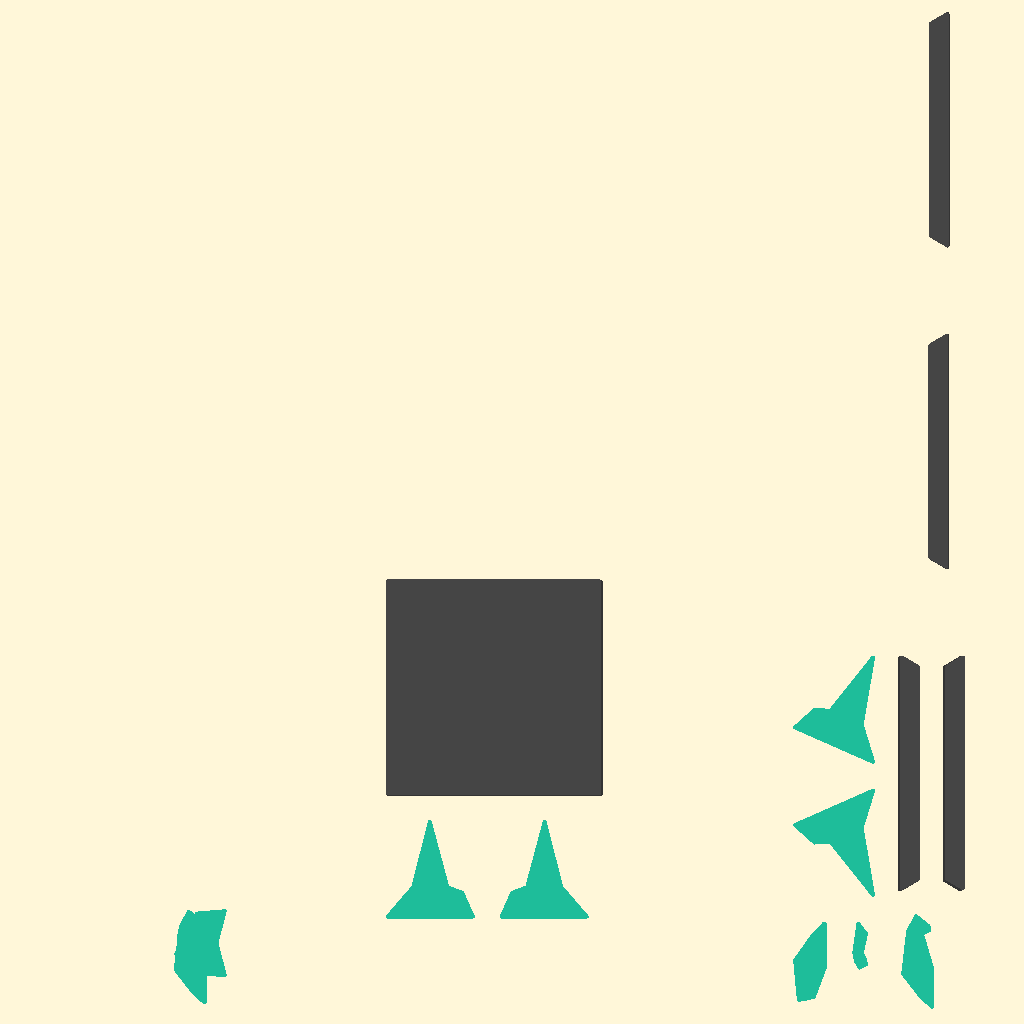
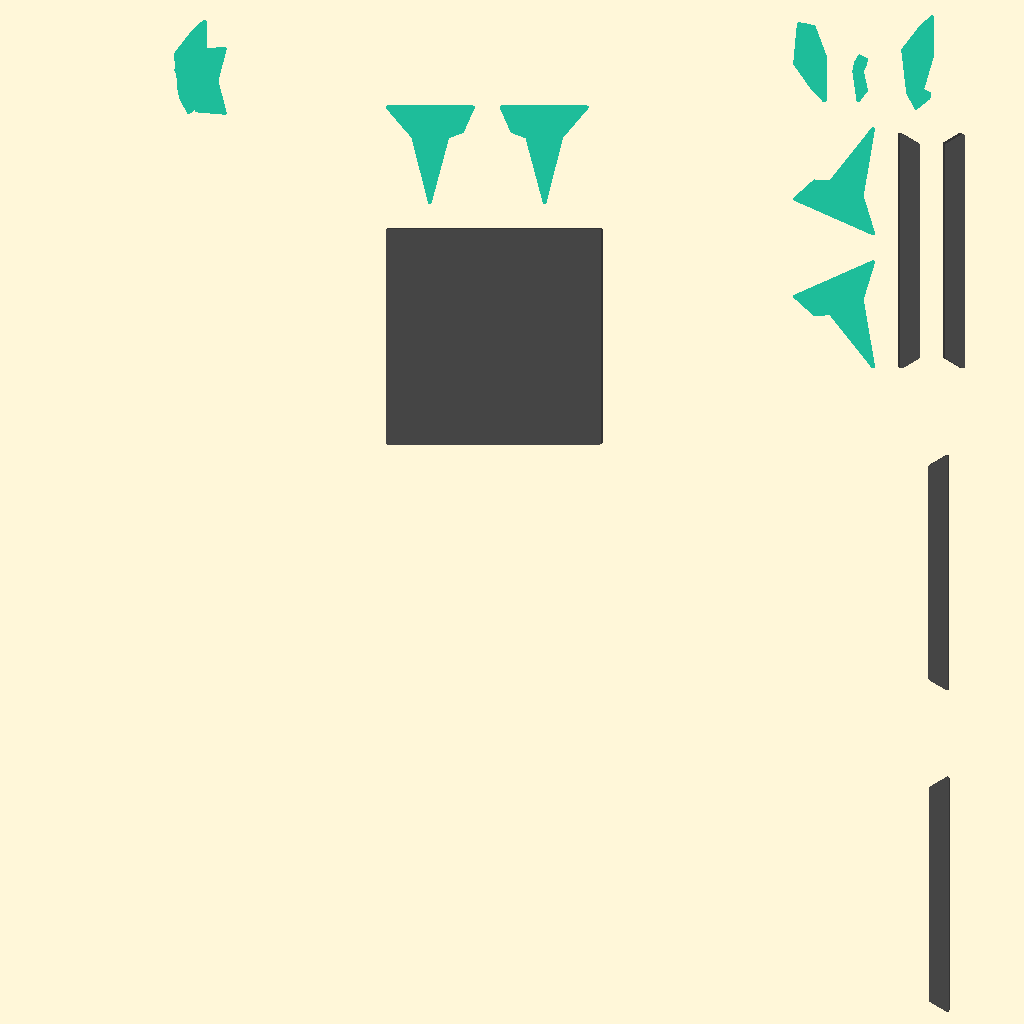
models and objects can use the same shaders now

diff --git a/week-04/03-pointShadows/main.c b/week-04/03-pointShadows/main.c
@@ -11,8 +11,8 @@ int main()
 	Trenderer render;
 	Tskybox skybox;
 	Tobject tile_floor, crate, probCrate;
-	unsigned int floorDiffuse, crateDiffuse, hanckDiffuse, hanckSpecular;
-	unsigned int lightShader, modelShader, objectShader, instanceShader, simpleDepthShader, debugDepthShader, insShadowMapShader;
+	unsigned int floorDiffuse, crateDiffuse, crateSpecular, hanckDiffuse, hanckSpecular;
+	unsigned int lightShader, objectShader, instanceShader, simpleDepthShader, debugDepthShader, insShadowMapShader;
 	unsigned int uboMatrices;
 	unsigned int tilesAmount = 128;
 	const unsigned SHADOW_WIDTH = 1024, SHADOW_HEIGHT = 1024;
@@ -54,16 +54,15 @@ int main()
 		{ 0.0f, 1.0f,  0.0f},
 	};
 	
-	window = prepareGLFW(600, 800);
+	window = prepareGLFW(800, 600);
 	glfwWindowHint(GLFW_SAMPLES, 4);
 	glEnable(GL_MULTISAMPLE);
 	
 	prepareGLEW();
 	init_config(&config, 1920, 1080);
-	init_camera(&camera, config, 4);
+	init_camera(&camera, config, 1);
 	
 	createShader(&lightShader, "./source/shaders/vertexShaders/newPers.vert", "./source/shaders/fragmentShaders/light.frag");
-	createShader(&modelShader, "./source/shaders/vertexShaders/modPer.vert", "./source/shaders/fragmentShaders/surfaceLight.frag");
 	createShader(&instanceShader, "./source/shaders/vertexShaders/newInstancedPers.vert", "./source/shaders/fragmentShaders/surfaceLight.frag");
 	createShader(&objectShader, "./source/shaders/vertexShaders/newPers.vert", "./source/shaders/fragmentShaders/surfaceLight.frag");
 	createShader(&(render.shader), "./source/shaders/vertexShaders/rendertoquad.vert", "./source/shaders/fragmentShaders/sampleScreen.frag");
@@ -75,6 +74,7 @@ int main()
 	create_skybox(&skybox, "./source/images/cubemaps/skybox_00/", 1);
 	createTexture(&floorDiffuse, "./source/images/grass_02.png", 1, 1);
 	createTexture(&crateDiffuse, "./source/images/crate_03.png", 1, 1);
+	createTexture(&crateSpecular, "./source/images/container2_specular.png", 1, 1);
 	createTexture(&hanckDiffuse, "./source/images/diffuse.png", 0, 1);
 	createTexture(&hanckSpecular, "./source/images/specularHanck.png", 0, 1);
 	
@@ -85,29 +85,24 @@ int main()
 	
 	load_model(&avatar, "./source/models/hanck.obj", 0.0f, 1.11f, -1.0f, 1);
 	
-	prepare_light(&modelShader	 , &lightShader, 0, lightColor, 0.6f, 0.022f, 0.0019f);
 	prepare_light(&objectShader	 , &lightShader, 0, lightColor, 0.6f, 0.0028f, 0.000014f);
 	prepare_light(&instanceShader, &lightShader, 0, lightColor, 0.3f, 0.007f, 0.0002f);
 	prepare_light(&insShadowMapShader, &lightShader, 0, lightColor, 0.3f, 0.007f, 0.0002f);
 	
-	setInt(&modelShader, "material.diffuse", 0);
-	setInt(&modelShader, "material.specular", 1);
-	setFloat(&modelShader, "material.shininess", 32.0f);
-	setVec4(&modelShader, "light[0].lightVector", light.pos[0], light.pos[1], light.pos[2], 0);
-	setInt(&modelShader, "n_lights", 1);
-	
 	setInt(&objectShader, "material.diffuse", 0);
+	setInt(&objectShader, "material.specular", 1);
 	setFloat(&objectShader, "material.shininess", 32.0f);
 	setVec4(&objectShader, "light[0].lightVector", light.pos[0], light.pos[1], light.pos[2], 0);
 	setInt(&objectShader, "n_lights", 1);
 	
 	setInt(&instanceShader, "material.diffuse", 0);
-	setFloat(&instanceShader, "material.shininess", 0.0f);
+	setFloat(&instanceShader, "material.shininess", 32.0f);
 	setVec4(&instanceShader, "light[0].lightVector", light.pos[0], light.pos[1], light.pos[2], 0); /*nota mental, 0 = luz de punto, 1 = luz direccional;*/
 	setInt(&instanceShader, "n_lights", 1);
 
 	setInt(&insShadowMapShader, "material.diffuse", 0);
-	setFloat(&insShadowMapShader, "material.shininess", 0.0f);
+	setInt(&insShadowMapShader, "material.specular", 2);
+	setFloat(&insShadowMapShader, "material.shininess", 32.0f);
 	setVec4(&insShadowMapShader, "light[0].lightVector", light.pos[0], light.pos[1], light.pos[2], 0);
 	setInt(&insShadowMapShader, "n_lights", 1);
 	
@@ -152,7 +147,7 @@ int main()
 		glm_translate(crate.model, crate.pos);
 		crateRot[0] = 1;
 		crateRot[2] = 0;
-		glm_rotate(crate.model, glm_rad(90.0f), crateRot);
+		glm_rotate(crate.model, glm_rad(-90.0f), crateRot);
 		crateRot[0] = 0;
 		crateRot[2] = 1;
 		glm_rotate(crate.model, glm_rad(random()%360), crateRot);
@@ -257,6 +252,12 @@ int main()
 		glBindVertexArray(crate.VAO);
 		glDrawElementsInstanced(GL_TRIANGLES, (crate.indices_n * 3), GL_UNSIGNED_INT, 0, cratesAmount);
 		
+		/*
+		bind_texture(&simpleDepthShader, hanckDiffuse, 0);
+		glBindVertexArray(avatar.VAO[0]);
+		glDrawElements(GL_TRIANGLES, (avatar.indices[0] * 3), GL_UNSIGNED_INT, NULL);
+		*/
+		
 		glBindFramebuffer(GL_FRAMEBUFFER, 0);
 		
 		run_uniformblockMatrices(uboMatrices, camera);
@@ -278,21 +279,25 @@ int main()
 		setVec4(&insShadowMapShader, "light[0].lightVector", light.pos[0], light.pos[1], light.pos[2], 0.0f);
 		setMat4(&insShadowMapShader, "lightSpaceMatrix", lightSpaceMatrix);
 		
-		setVec4(&modelShader, "light[0].lightVector", light.pos[0], light.pos[1], light.pos[2], 0.0f);
-		setVec3(&modelShader, "viewPos", camera.pos[0], camera.pos[1], camera.pos[2]);
+		setVec4(&objectShader, "light[0].lightVector", light.pos[0], light.pos[1], light.pos[2], 0.0f);
+		setVec3(&objectShader, "viewPos", camera.pos[0], camera.pos[1], camera.pos[2]);
 		
 		bind_texture(&insShadowMapShader, floorDiffuse, 0);
+		bind_texture(&insShadowMapShader, floorDiffuse, 2);
 		useShader(&insShadowMapShader);
 		glBindVertexArray(tile_floor.VAO);
 		glDrawElementsInstanced(GL_TRIANGLES, (tile_floor.indices_n * 3), GL_UNSIGNED_INT, 0, tilesAmount);
 		
 		bind_texture(&insShadowMapShader, crateDiffuse, 0);
+		bind_texture(&insShadowMapShader, crateSpecular, 2);
 		glBindVertexArray(crate.VAO);
 		glDrawElementsInstanced(GL_TRIANGLES, (crate.indices_n * 3), GL_UNSIGNED_INT, 0, cratesAmount);
 		
-		bind_texture(&modelShader, hanckDiffuse, 0);
-		bind_texture(&modelShader, hanckSpecular, 1);
-		draw_model(&avatar, &modelShader, camera);
+		bind_texture(&objectShader, hanckDiffuse, 0);
+		bind_texture(&objectShader, hanckSpecular, 1);
+		draw_model(&avatar, &objectShader, camera);
+		glBindVertexArray(avatar.VAO[0]);
+		glDrawElements(GL_TRIANGLES, (avatar.indices[0] * 3), GL_UNSIGNED_INT, NULL);
 		
 		useShader(&debugDepthShader);
 		setFloat(&debugDepthShader, "near_plane", nearPlane);

diff --git a/week-04/03-pointShadows/source/engine/elements.c b/week-04/03-pointShadows/source/engine/elements.c
@@ -47,7 +47,7 @@ int instance_create_quad(Tobject *ID, float x, float y, float z, int width, int 
 	vertices[0] =				-hwidth;	vertices[1] =				-hheihght;	vertices[2]					= 0.0f;
 	vertices[nVertices] =		 hwidth;	vertices[1+nVertices] =		-hheihght;	vertices[2+nVertices]		= 0.0f;
 	vertices[(nVertices*2)] =	 hwidth;	vertices[1+(nVertices*2)] =	 hheihght;	vertices[2+(nVertices*2)]	= 0.0f;
-		vertices[(nVertices*3)] =	-hwidth;	vertices[1+(nVertices*3)] =	 hheihght;	vertices[2+(nVertices*3)]	= 0.0f;
+	vertices[(nVertices*3)] =	-hwidth;	vertices[1+(nVertices*3)] =	 hheihght;	vertices[2+(nVertices*3)]	= 0.0f;
 	
 	
 	glGenVertexArrays(1, &(ID->VAO));

diff --git a/week-04/03-pointShadows/source/engine/engine.c b/week-04/03-pointShadows/source/engine/engine.c
@@ -81,9 +81,7 @@ GLFWwindow *prepareGLFW(int width, int height)
 		glfwSetCursorPosCallback(window, mouse_callback);
 		glfwSetScrollCallback(window, scroll_callback);
 		glfwSetInputMode(window, GLFW_CURSOR, GLFW_CURSOR_DISABLED);  
-		/*
 		stbi_set_flip_vertically_on_load(1);
-		*/
 		glDepthFunc(GL_LESS);
 		glEnable(GL_STENCIL_TEST);
 		glStencilFunc(GL_ALWAYS, 1, 0xFF);
